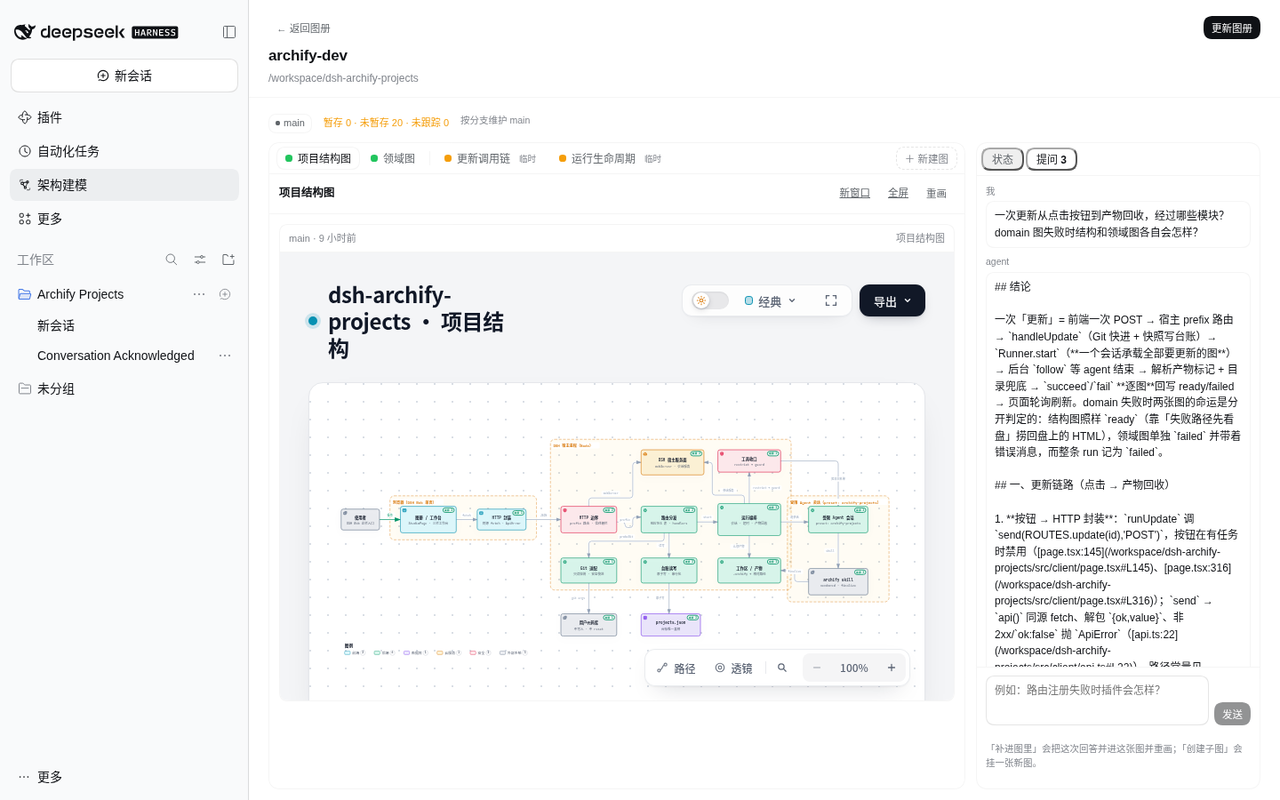
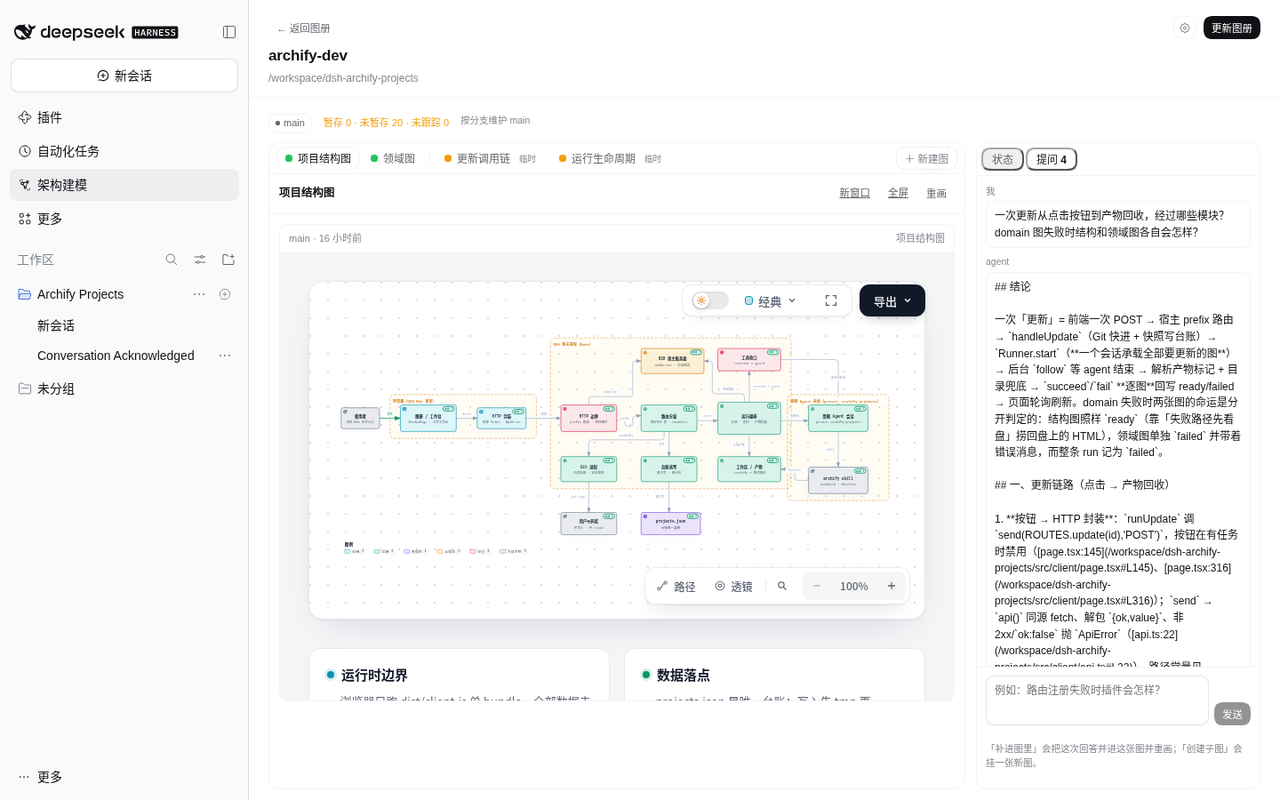
docs: 重截提问截图，并给市场声明截图清单
`hideArtifactHeader()`（cf45725）只重截了工作台那张，README 里「提问」用的还是
修复前 9 分钟的画面——成品自带的大标题和状态点还挂着。这次在 dsh-dev 里对着
真实数据重截：1440×900 渲染后 Lanczos 缩到 1280×800，侧栏边界与行距跟现存
四张图逐行对齐（直接 1280×800 截会大 1.12 倍）。

顺带补上市场详情页截图的真实来源：它读插件自己仓库 package.json 旁边的
`screenshots.json`，既不在条目 YAML 里，也不从 README 抽；没声明时索引里连
screenshots 字段都没有，所以市场卡片一直空着。加这个文件后推仓库即可，
nightly 自动生效，不用再提 PR。

HANDOVER 记下截图配方与「改渲染就要把覆盖它的每张图都重截」。

diff --git a/docs/market/README.md b/docs/market/README.md
@@ -109,3 +109,28 @@ git push -u origin update-entry && gh pr create --repo awesome-dsh-plugin/awesom
 - 在你**自己机器**上，dsh-market 打开时会实时拉 `plugins.json`；如果拉不到，可在
   **插件 → 发现 → 索引源**里加 `https://cdn.jsdelivr.net/npm/dsh-plugin-catalog/index.json`。
 - 没合并之前，dsh-market 里搜不到 —— 因为它只显示 curated 列表里的条目。
+
+## 市场详情页的截图：仓库根 `screenshots.json`
+
+市场详情页那块 AppStore 式截图**不从条目 YAML 来，也不从 README 抽**——它是
+`awesome-dsh-plugin` 的 `probe-screenshots.mjs` 读**插件自己仓库**里、`package.json`
+旁边的 `screenshots.json`（1–8 条**相对路径**，按仓库 HEAD 解析成 raw 绝对地址）：
+
+```json
+[
+  "docs/verify/shot-atlas.png",
+  "docs/verify/shot-workbench.png",
+  "docs/verify/shot-qa.png",
+  "docs/verify/shot-dialog.png"
+]
+```
+
+几条硬规矩（都写在它的 `contributing.md` 里）：
+
+- **改截图只推自己的仓库**，不用再提 PR、不用等维护者，下一个 nightly 自动生效；
+- 相对路径优先（改名会立刻在自己仓库里暴露）；绝对 URL 只收 GitHub 托管
+  （`raw.githubusercontent.com` 等），第三方图床直接被拒；
+- 上限 8 张，404 的会被静默丢掉；不声明时该字段整个不出现，详情页就没有截图画廊
+  （README 正文照常在详情页底部渲染，那是另一条 `probe-readmes` 路径）；
+- 老的 `data/screenshots.json`（键是条目 URL）只是前 `screenshots.json` 时代的回退，
+  别往里加新键。本插件当初就是没声明这个文件，所以市场里一直看不到图。

diff --git a/docs/HANDOVER.md b/docs/HANDOVER.md
@@ -30,6 +30,13 @@ DSH 的左栏插件「架构建模」：把一个代码库登记进台账，用*
 
 **没有半成品功能**。已知未做的都在 §8，属于可选增强，不是缺陷。
 
+> **截图配方**（`docs/verify/shot-*.png`，README 与市场都用它们）：按 **1440×900** 渲染，
+> 再 Lanczos 缩到 **1280×800**——现存四张图的侧栏右边界在 x=247、侧栏行距 34px，直接
+> 1280×800 截会大 1.12 倍，四张放一起看得出不是一套。改了任何影响成图画面的渲染（例如
+> `hideArtifactHeader()` 去掉成品页头），**覆盖它的每一张都要重截**，别只重截手上那张。
+> 市场详情页的截图画廊读仓库根 `screenshots.json`（见 [`docs/market/README.md`](./market/README.md)），
+> 不从条目 YAML 来，也不从 README 抽。
+
 ---
 
 ## 2. 五分钟跑起来
